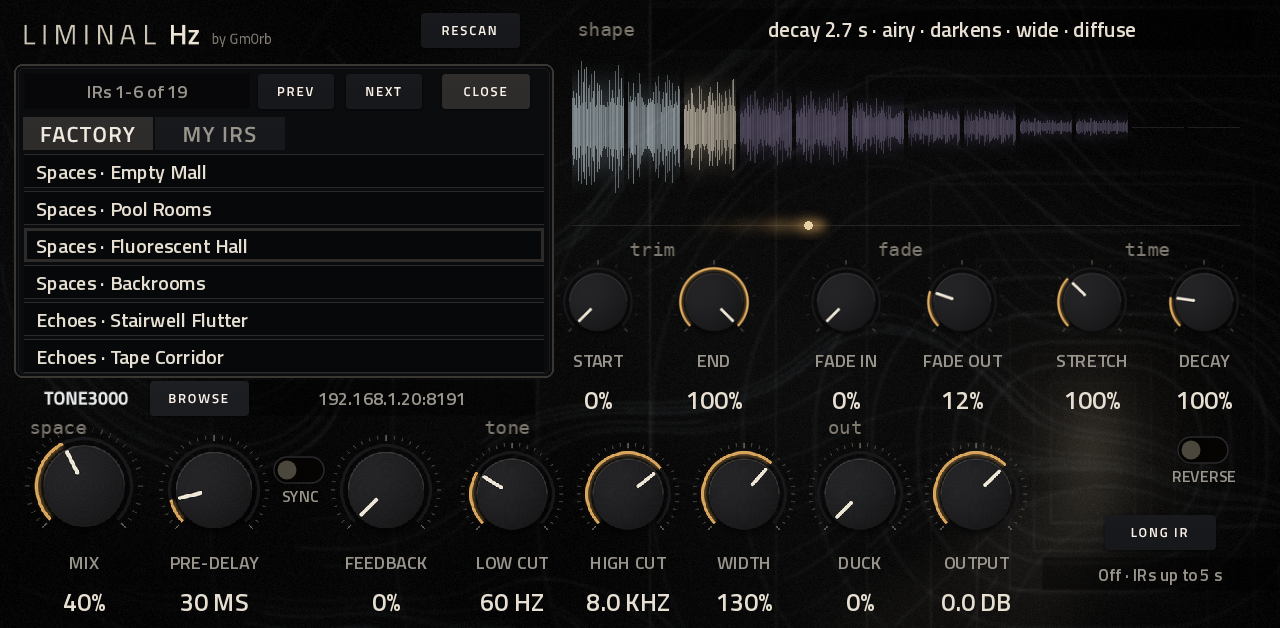
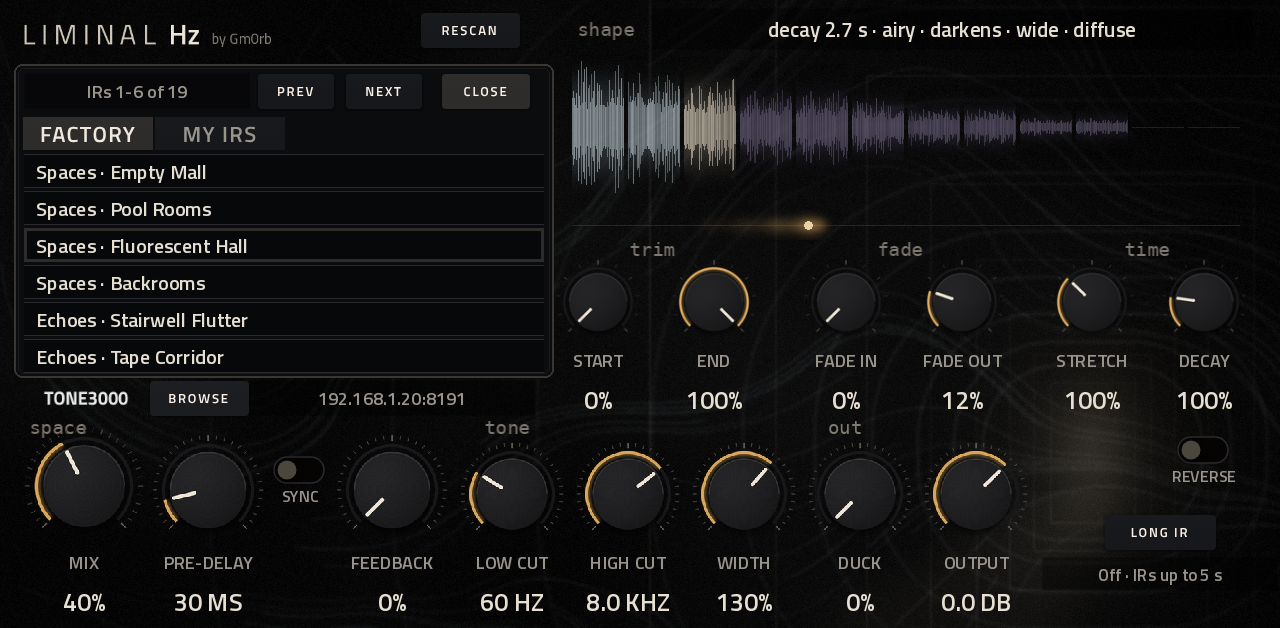
Page: SYNC's label fits (72 px box, PRE-DELAY and FEEDBACK 6 px apart)
On the device MPC cut the SYNC toggle's label: the box was 60 px and MPC
draws toggle names at 25 px (Titillium SemiBold: "SYNC" is ~58 px), and
a box wants ~20% more than its text (the kit's rule). The toggle is now
72 px; PRE-DELAY moves 214 -> 208 and FEEDBACK 386 -> 392 so SYNC's
touch overlap with each stays 9 px. skin_check: one new note, FEEDBACK
and LOW CUT's boxes overlap 10 px (their names and values don't touch;
the knobs to their right overlap 14 px, as before). README page images,
the SYNC feature image re-rendered.

Claude-Session: https://claude.ai/code/session_019nRdHg98HMuDH1M236dh2W

diff --git a/docs/HANDOFF.md b/docs/HANDOFF.md
@@ -288,9 +288,10 @@ display, the controls, factory presets, install; then the CPU design, build and 
   tempo: 120 BPM, and the value reads "1/8 @120". kMaxPredelay 250 -> 2000 ms (2 x 88 k floats).
 - Both appended before P_PRESET_OPEN; kPresetParams has them; mp_apply sets both off before applying (older .lhzp);
   apply_preset sets both 0; Init resets them (defaults).
-- Page: bottom row respaced (MIX 84, PRE-DELAY 214, SYNC toggle 300 bw=60, FEEDBACK 386, LOW CUT 512, HIGH CUT 628,
+- Page: bottom row respaced (MIX 84, PRE-DELAY 208, SYNC toggle 300 bw=72, FEEDBACK 392, LOW CUT 512, HIGH CUT 628,
   WIDTH 744, DUCK 860, OUTPUT 976; captions tone x=480, out x=826). New skin_check notes: knob boxes overlap 14 px
-  (as the trim row always did), SYNC 9 px each side.
+  (as the trim row always did), FEEDBACK/LOW CUT 10 px, SYNC 9 px each side. SYNC was bw=60 at first, and MPC cut
+  the word on the device: its label font is 25 px ("SYNC" ~58 px wide), and a box wants ~20% more than the text.
 - Q-Links (both banks): mix, decay, feedback, predelay, duck, lowcut, highcut, width, ir, stretch, start, length,
   fade_in, fade_out, reverse, output.
 - Textures: tools/make_factory_irs.py appends 5 builders (seeds continue: the 14 earlier files are byte-identical);
